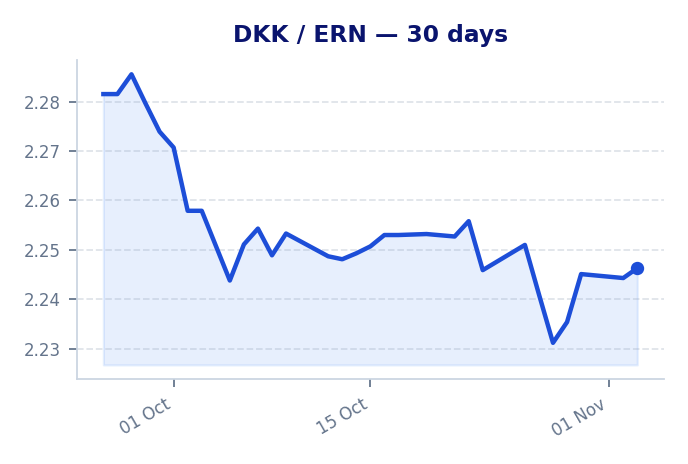
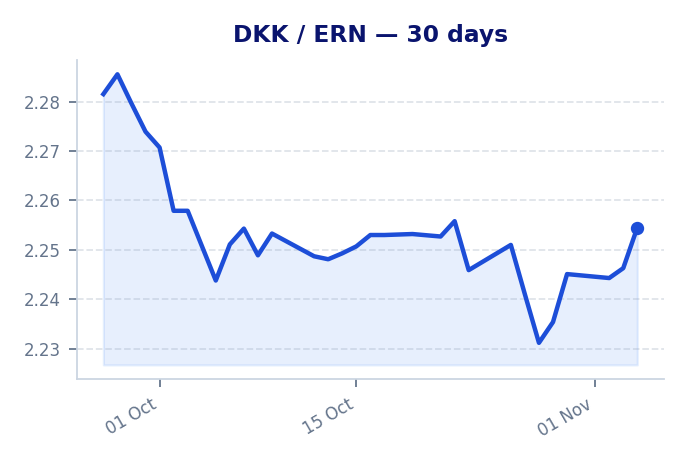
Add files via upload

diff --git a/index.html b/index.html
@@ -912,22 +912,22 @@ tr:hover {
 
             <div class="summary-item">
                 <div class="summary-label">SEK</div>
-                <div class="summary-value">1.5315</div>
+                <div class="summary-value">1.5375</div>
             </div>
 
             <div class="summary-item">
                 <div class="summary-label">NOK</div>
-                <div class="summary-value">1.6164</div>
+                <div class="summary-value">1.6189</div>
             </div>
 
             <div class="summary-item">
                 <div class="summary-label">DKK</div>
-                <div class="summary-value">2.2463</div>
+                <div class="summary-value">2.2545</div>
             </div>
 
             </div>
             <div class="mid-market-meta">
-                <div><span style="font-weight:600" data-i18n="last-updated">Last Updated:</span> 2026-11-03 21:31</div>
+                <div><span style="font-weight:600" data-i18n="last-updated">Last Updated:</span> 2026-11-04 07:04</div>
                 <div style="font-size:0.8rem" data-i18n="mid-market-note">Official mid-market rates collected daily. Actual transfer payout rates shown below.</div>
             </div>
         </div>
@@ -947,11 +947,11 @@ tr:hover {
             <div class="insight-boxes">
                 <div class="bestbox">
                     <span class="icon">🏆</span> 
-                    <span data-i18n="top-pick">Top Pick: <b>Ria</b> delivers <b>15 000 ERN</b></span>
+                    <span data-i18n="top-pick">Top Pick: <b>Remitly</b> delivers <b>15 129 ERN</b></span>
                 </div>
                 <div class="gainbox">
                     <span class="icon">💡</span> 
-                    <span data-i18n="smart-move">Smart Move: You get <b>+353 ERN</b> more with <b>Ria</b> vs <b>Juba Express</b></span>
+                    <span data-i18n="smart-move">Smart Move: You get <b>+421 ERN</b> more with <b>Remitly</b> vs <b>Juba Express</b></span>
                 </div>
             </div>
             
@@ -972,25 +972,25 @@ tr:hover {
                         
 <tr class="best-row">
 <td class="left">
-    <div class="company-name">Ria</div>
+    <div class="company-name">Remitly</div>
 </td>
-<td class="right font-numeric">1.5000</td>
+<td class="right font-numeric">1.5130</td>
 <td class="right font-numeric">0,00</td>
-<td class="right nowrap font-numeric highlight-ern">15 000</td>
+<td class="right nowrap font-numeric highlight-ern">15 129</td>
 <td class="right nowrap font-numeric">-</td>
-<td class="right font-numeric markup-cell">2.06%</td>
+<td class="right font-numeric markup-good">1.59%</td>
 <td class="right font-numeric hide-mobile"><span class="badge best-badge">Best</span></td>
 </tr>
 
 <tr class="">
 <td class="left">
-    <div class="company-name">Western Union</div>
+    <div class="company-name">Ria</div>
 </td>
-<td class="right font-numeric">1.4938</td>
+<td class="right font-numeric">1.5000</td>
 <td class="right font-numeric">0,00</td>
-<td class="right nowrap font-numeric highlight-ern">14 938</td>
-<td class="right nowrap font-numeric"><span class="loss-text">-62 ERN</span></td>
-<td class="right font-numeric markup-cell">2.46%</td>
+<td class="right nowrap font-numeric highlight-ern">15 000</td>
+<td class="right nowrap font-numeric"><span class="loss-text">-129 ERN</span></td>
+<td class="right font-numeric markup-cell">2.44%</td>
 <td class="right font-numeric hide-mobile"><span class="badge rank-badge">#2</span></td>
 </tr>
 
@@ -998,23 +998,23 @@ tr:hover {
 <td class="left">
     <div class="company-name">Transfer Galaxy</div>
 </td>
-<td class="right font-numeric">1.4908</td>
+<td class="right font-numeric">1.4897</td>
 <td class="right font-numeric">0,00</td>
-<td class="right nowrap font-numeric highlight-ern">14 907</td>
-<td class="right nowrap font-numeric"><span class="loss-text">-92 ERN</span></td>
-<td class="right font-numeric markup-cell">2.66%</td>
+<td class="right nowrap font-numeric highlight-ern">14 897</td>
+<td class="right nowrap font-numeric"><span class="loss-text">-232 ERN</span></td>
+<td class="right font-numeric markup-cell">3.11%</td>
 <td class="right font-numeric hide-mobile"><span class="badge rank-badge">#3</span></td>
 </tr>
 
 <tr class="">
 <td class="left">
-    <div class="company-name">Remitly</div>
+    <div class="company-name">Western Union</div>
 </td>
-<td class="right font-numeric">1.4908</td>
+<td class="right font-numeric">1.4890</td>
 <td class="right font-numeric">0,00</td>
-<td class="right nowrap font-numeric highlight-ern">14 907</td>
-<td class="right nowrap font-numeric"><span class="loss-text">-92 ERN</span></td>
-<td class="right font-numeric markup-cell">2.66%</td>
+<td class="right nowrap font-numeric highlight-ern">14 890</td>
+<td class="right nowrap font-numeric"><span class="loss-text">-239 ERN</span></td>
+<td class="right font-numeric markup-cell">3.15%</td>
 <td class="right font-numeric hide-mobile"><span class="badge rank-badge">#4</span></td>
 </tr>
 
@@ -1022,11 +1022,11 @@ tr:hover {
 <td class="left">
     <div class="company-name">Dahabshiil</div>
 </td>
-<td class="right font-numeric">1.4748</td>
+<td class="right font-numeric">1.4815</td>
 <td class="right font-numeric">0,00</td>
-<td class="right nowrap font-numeric highlight-ern">14 748</td>
-<td class="right nowrap font-numeric"><span class="loss-text">-251 ERN</span></td>
-<td class="right font-numeric markup-cell">3.70%</td>
+<td class="right nowrap font-numeric highlight-ern">14 815</td>
+<td class="right nowrap font-numeric"><span class="loss-text">-314 ERN</span></td>
+<td class="right font-numeric markup-cell">3.64%</td>
 <td class="right font-numeric hide-mobile"><span class="badge rank-badge">#5</span></td>
 </tr>
 
@@ -1034,11 +1034,11 @@ tr:hover {
 <td class="left">
     <div class="company-name">Juba Express</div>
 </td>
-<td class="right font-numeric">1.4647</td>
+<td class="right font-numeric">1.4708</td>
 <td class="right font-numeric">0,00</td>
-<td class="right nowrap font-numeric highlight-ern">14 646</td>
-<td class="right nowrap font-numeric"><span class="loss-text">-353 ERN</span></td>
-<td class="right font-numeric markup-cell">4.36%</td>
+<td class="right nowrap font-numeric highlight-ern">14 708</td>
+<td class="right nowrap font-numeric"><span class="loss-text">-421 ERN</span></td>
+<td class="right font-numeric markup-cell">4.34%</td>
 <td class="right font-numeric hide-mobile"><span class="badge rank-badge">#6</span></td>
 </tr>
 
@@ -1060,11 +1060,11 @@ tr:hover {
             <div class="insight-boxes">
                 <div class="bestbox">
                     <span class="icon">🏆</span> 
-                    <span data-i18n="top-pick">Top Pick: <b>Ria Money Transfer</b> delivers <b>15 700 ERN</b></span>
+                    <span data-i18n="top-pick">Top Pick: <b>Transfer Galaxy</b> delivers <b>15 704 ERN</b></span>
                 </div>
                 <div class="gainbox">
                     <span class="icon">💡</span> 
-                    <span data-i18n="smart-move">Smart Move: You get <b>+858 ERN</b> more with <b>Ria Money Transfer</b> vs <b>Hidmona Money Transfer</b></span>
+                    <span data-i18n="smart-move">Smart Move: You get <b>+862 ERN</b> more with <b>Transfer Galaxy</b> vs <b>Hidmona Money Transfer</b></span>
                 </div>
             </div>
             
@@ -1085,37 +1085,37 @@ tr:hover {
                         
 <tr class="best-row">
 <td class="left">
+    <div class="company-name">Transfer Galaxy</div>
+</td>
+<td class="right font-numeric">1.5704</td>
+<td class="right font-numeric">0,00</td>
+<td class="right nowrap font-numeric highlight-ern">15 704</td>
+<td class="right nowrap font-numeric">-</td>
+<td class="right font-numeric markup-cell">3.00%</td>
+<td class="right font-numeric hide-mobile"><span class="badge best-badge">Best</span></td>
+</tr>
+
+<tr class="">
+<td class="left">
     <div class="company-name">Ria Money Transfer</div>
 </td>
 <td class="right font-numeric">1.5700</td>
 <td class="right font-numeric">0,00</td>
 <td class="right nowrap font-numeric highlight-ern">15 700</td>
-<td class="right nowrap font-numeric">-</td>
-<td class="right font-numeric markup-cell">2.87%</td>
-<td class="right font-numeric hide-mobile"><span class="badge best-badge">Best</span></td>
+<td class="right nowrap font-numeric"><span class="loss-text">-4 ERN</span></td>
+<td class="right font-numeric markup-cell">3.02%</td>
+<td class="right font-numeric hide-mobile"><span class="badge rank-badge">#2</span></td>
 </tr>
 
 <tr class="">
 <td class="left">
     <div class="company-name">Remitly</div>
 </td>
-<td class="right font-numeric">1.5681</td>
+<td class="right font-numeric">1.5697</td>
 <td class="right font-numeric">0,00</td>
-<td class="right nowrap font-numeric highlight-ern">15 681</td>
-<td class="right nowrap font-numeric"><span class="loss-text">-19 ERN</span></td>
-<td class="right font-numeric markup-cell">2.99%</td>
-<td class="right font-numeric hide-mobile"><span class="badge rank-badge">#2</span></td>
-</tr>
-
-<tr class="">
-<td class="left">
-    <div class="company-name">Transfer Galaxy</div>
-</td>
-<td class="right font-numeric">1.5670</td>
-<td class="right font-numeric">0,00</td>
-<td class="right nowrap font-numeric highlight-ern">15 670</td>
-<td class="right nowrap font-numeric"><span class="loss-text">-30 ERN</span></td>
-<td class="right font-numeric markup-cell">3.06%</td>
+<td class="right nowrap font-numeric highlight-ern">15 697</td>
+<td class="right nowrap font-numeric"><span class="loss-text">-6 ERN</span></td>
+<td class="right font-numeric markup-cell">3.04%</td>
 <td class="right font-numeric hide-mobile"><span class="badge rank-badge">#3</span></td>
 </tr>
 
@@ -1123,11 +1123,11 @@ tr:hover {
 <td class="left">
     <div class="company-name">Juba Express</div>
 </td>
-<td class="right font-numeric">1.5456</td>
+<td class="right font-numeric">1.5485</td>
 <td class="right font-numeric">0,00</td>
-<td class="right nowrap font-numeric highlight-ern">15 456</td>
-<td class="right nowrap font-numeric"><span class="loss-text">-244 ERN</span></td>
-<td class="right font-numeric markup-cell">4.38%</td>
+<td class="right nowrap font-numeric highlight-ern">15 485</td>
+<td class="right nowrap font-numeric"><span class="loss-text">-219 ERN</span></td>
+<td class="right font-numeric markup-cell">4.35%</td>
 <td class="right font-numeric hide-mobile"><span class="badge rank-badge">#4</span></td>
 </tr>
 
@@ -1135,11 +1135,11 @@ tr:hover {
 <td class="left">
     <div class="company-name">Dahabshiil</div>
 </td>
-<td class="right font-numeric">1.5080</td>
+<td class="right font-numeric">1.5112</td>
 <td class="right font-numeric">0,00</td>
-<td class="right nowrap font-numeric highlight-ern">15 080</td>
-<td class="right nowrap font-numeric"><span class="loss-text">-620 ERN</span></td>
-<td class="right font-numeric markup-cell">6.71%</td>
+<td class="right nowrap font-numeric highlight-ern">15 112</td>
+<td class="right nowrap font-numeric"><span class="loss-text">-591 ERN</span></td>
+<td class="right font-numeric markup-cell">6.65%</td>
 <td class="right font-numeric hide-mobile"><span class="badge rank-badge">#5</span></td>
 </tr>
 
@@ -1150,8 +1150,8 @@ tr:hover {
 <td class="right font-numeric">1.4842</td>
 <td class="right font-numeric">0,00</td>
 <td class="right nowrap font-numeric highlight-ern">14 842</td>
-<td class="right nowrap font-numeric"><span class="loss-text">-858 ERN</span></td>
-<td class="right font-numeric markup-cell">8.18%</td>
+<td class="right nowrap font-numeric"><span class="loss-text">-862 ERN</span></td>
+<td class="right font-numeric markup-cell">8.32%</td>
 <td class="right font-numeric hide-mobile"><span class="badge rank-badge">#6</span></td>
 </tr>
 
@@ -1173,11 +1173,11 @@ tr:hover {
             <div class="insight-boxes">
                 <div class="bestbox">
                     <span class="icon">🏆</span> 
-                    <span data-i18n="top-pick">Top Pick: <b>Western Union</b> delivers <b>22 106 ERN</b></span>
+                    <span data-i18n="top-pick">Top Pick: <b>Western Union</b> delivers <b>22 453 ERN</b></span>
                 </div>
                 <div class="gainbox">
                     <span class="icon">💡</span> 
-                    <span data-i18n="smart-move">Smart Move: You get <b>+627 ERN</b> more with <b>Western Union</b> vs <b>Juba Express</b></span>
+                    <span data-i18n="smart-move">Smart Move: You get <b>+886 ERN</b> more with <b>Western Union</b> vs <b>Juba Express</b></span>
                 </div>
             </div>
             
@@ -1200,11 +1200,11 @@ tr:hover {
 <td class="left">
     <div class="company-name">Western Union</div>
 </td>
-<td class="right font-numeric">2.2106</td>
+<td class="right font-numeric">2.2453</td>
 <td class="right font-numeric">0,00</td>
-<td class="right nowrap font-numeric highlight-ern">22 106</td>
+<td class="right nowrap font-numeric highlight-ern">22 453</td>
 <td class="right nowrap font-numeric">-</td>
-<td class="right font-numeric markup-good">1.59%</td>
+<td class="right font-numeric markup-good">0.41%</td>
 <td class="right font-numeric hide-mobile"><span class="badge best-badge">Best</span></td>
 </tr>
 
@@ -1215,8 +1215,8 @@ tr:hover {
 <td class="right font-numeric">2.2100</td>
 <td class="right font-numeric">0,00</td>
 <td class="right nowrap font-numeric highlight-ern">22 100</td>
-<td class="right nowrap font-numeric"><span class="loss-text">-6 ERN</span></td>
-<td class="right font-numeric markup-good">1.62%</td>
+<td class="right nowrap font-numeric"><span class="loss-text">-353 ERN</span></td>
+<td class="right font-numeric markup-good">1.97%</td>
 <td class="right font-numeric hide-mobile"><span class="badge rank-badge">#2</span></td>
 </tr>
 
@@ -1224,11 +1224,11 @@ tr:hover {
 <td class="left">
     <div class="company-name">Remitly</div>
 </td>
-<td class="right font-numeric">2.1944</td>
+<td class="right font-numeric">2.2016</td>
 <td class="right font-numeric">0,00</td>
-<td class="right nowrap font-numeric highlight-ern">21 944</td>
-<td class="right nowrap font-numeric"><span class="loss-text">-162 ERN</span></td>
-<td class="right font-numeric markup-cell">2.31%</td>
+<td class="right nowrap font-numeric highlight-ern">22 016</td>
+<td class="right nowrap font-numeric"><span class="loss-text">-437 ERN</span></td>
+<td class="right font-numeric markup-cell">2.35%</td>
 <td class="right font-numeric hide-mobile"><span class="badge rank-badge">#3</span></td>
 </tr>
 
@@ -1236,11 +1236,11 @@ tr:hover {
 <td class="left">
     <div class="company-name">Transfer Galaxy</div>
 </td>
-<td class="right font-numeric">2.1840</td>
+<td class="right font-numeric">2.1839</td>
 <td class="right font-numeric">0,00</td>
-<td class="right nowrap font-numeric highlight-ern">21 840</td>
-<td class="right nowrap font-numeric"><span class="loss-text">-266 ERN</span></td>
-<td class="right font-numeric markup-cell">2.77%</td>
+<td class="right nowrap font-numeric highlight-ern">21 839</td>
+<td class="right nowrap font-numeric"><span class="loss-text">-614 ERN</span></td>
+<td class="right font-numeric markup-cell">3.13%</td>
 <td class="right font-numeric hide-mobile"><span class="badge rank-badge">#4</span></td>
 </tr>
 
@@ -1251,8 +1251,8 @@ tr:hover {
 <td class="right font-numeric">2.1817</td>
 <td class="right font-numeric">0,00</td>
 <td class="right nowrap font-numeric highlight-ern">21 817</td>
-<td class="right nowrap font-numeric"><span class="loss-text">-288 ERN</span></td>
-<td class="right font-numeric markup-cell">2.88%</td>
+<td class="right nowrap font-numeric"><span class="loss-text">-635 ERN</span></td>
+<td class="right font-numeric markup-cell">3.23%</td>
 <td class="right font-numeric hide-mobile"><span class="badge rank-badge">#5</span></td>
 </tr>
 
@@ -1260,11 +1260,11 @@ tr:hover {
 <td class="left">
     <div class="company-name">Juba Express</div>
 </td>
-<td class="right font-numeric">2.1479</td>
+<td class="right font-numeric">2.1567</td>
 <td class="right font-numeric">0,00</td>
-<td class="right nowrap font-numeric highlight-ern">21 479</td>
-<td class="right nowrap font-numeric"><span class="loss-text">-627 ERN</span></td>
-<td class="right font-numeric markup-cell">4.38%</td>
+<td class="right nowrap font-numeric highlight-ern">21 567</td>
+<td class="right nowrap font-numeric"><span class="loss-text">-886 ERN</span></td>
+<td class="right font-numeric markup-cell">4.34%</td>
 <td class="right font-numeric hide-mobile"><span class="badge rank-badge">#6</span></td>
 </tr>
 
@@ -1282,7 +1282,7 @@ tr:hover {
             <div class="chart-card">
                 <div class="chart-header">
                     <img src="https://flagcdn.com/w40/se.png" class="flag-sm" alt="Sweden" width="24" height="16" loading="lazy" decoding="async"> <span>SEK / ERN</span>
-                    <span class="trend-badge up">▲ 1.4%</span>
+                    <span class="trend-badge up">▲ 1.8%</span>
                 </div>
                 <img src="sek_chart.png" class="chart-img" alt="SEK to ERN exchange-rate trend over the last 30 days" loading="lazy" decoding="async" width="688" height="464">
             </div>
@@ -1290,7 +1290,7 @@ tr:hover {
             <div class="chart-card">
                 <div class="chart-header">
                     <img src="https://flagcdn.com/w40/no.png" class="flag-sm" alt="Norway" width="24" height="16" loading="lazy" decoding="async"> <span>NOK / ERN</span>
-                    <span class="trend-badge up">▲ 2.7%</span>
+                    <span class="trend-badge up">▲ 2.8%</span>
                 </div>
                 <img src="nok_chart.png" class="chart-img" alt="NOK to ERN exchange-rate trend over the last 30 days" loading="lazy" decoding="async" width="688" height="464">
             </div>
@@ -1298,7 +1298,7 @@ tr:hover {
             <div class="chart-card">
                 <div class="chart-header">
                     <img src="https://flagcdn.com/w40/dk.png" class="flag-sm" alt="Denmark" width="24" height="16" loading="lazy" decoding="async"> <span>DKK / ERN</span>
-                    <span class="trend-badge down">▼ 1.5%</span>
+                    <span class="trend-badge down">▼ 1.2%</span>
                 </div>
                 <img src="dkk_chart.png" class="chart-img" alt="DKK to ERN exchange-rate trend over the last 30 days" loading="lazy" decoding="async" width="688" height="464">
             </div>
@@ -1361,7 +1361,7 @@ tr:hover {
         "calculator-note": "እቲ ዝበለጸ ክፍሊት ንዝኣተኻዮ መጠን ብተመሳሳሊ ሕሳብ ዋጋን ክፍሊትን ከም ሰንጠረዥ ይደጋገም።"
     };
 
-    const calculatorData = {"SEK": [{"provider": "Ria", "rate": 1.5, "total_fee": 0.0}, {"provider": "Western Union", "rate": 1.4938, "total_fee": 0.0}, {"provider": "Transfer Galaxy", "rate": 1.4908, "total_fee": 0.0}, {"provider": "Remitly", "rate": 1.4908, "total_fee": 0.0}, {"provider": "Dahabshiil", "rate": 1.4748, "total_fee": 0.0}, {"provider": "Juba Express", "rate": 1.4647, "total_fee": 0.0}], "NOK": [{"provider": "Ria Money Transfer", "rate": 1.57, "total_fee": 0.0}, {"provider": "Remitly", "rate": 1.5681, "total_fee": 0.0}, {"provider": "Transfer Galaxy", "rate": 1.567, "total_fee": 0.0}, {"provider": "Juba Express", "rate": 1.5456, "total_fee": 0.0}, {"provider": "Dahabshiil", "rate": 1.508, "total_fee": 0.0}, {"provider": "Hidmona Money Transfer", "rate": 1.4842, "total_fee": 0.0}], "DKK": [{"provider": "Western Union", "rate": 2.2106, "total_fee": 0.0}, {"provider": "Ria Money Transfer", "rate": 2.21, "total_fee": 0.0}, {"provider": "Remitly", "rate": 2.1944, "total_fee": 0.0}, {"provider": "Transfer Galaxy", "rate": 2.184, "total_fee": 0.0}, {"provider": "Hidmona Money Transfer", "rate": 2.1817, "total_fee": 0.0}, {"provider": "Juba Express", "rate": 2.1479, "total_fee": 0.0}]};
+    const calculatorData = {"SEK": [{"provider": "Remitly", "rate": 1.513, "total_fee": 0.0}, {"provider": "Ria", "rate": 1.5, "total_fee": 0.0}, {"provider": "Transfer Galaxy", "rate": 1.4897, "total_fee": 0.0}, {"provider": "Western Union", "rate": 1.489, "total_fee": 0.0}, {"provider": "Dahabshiil", "rate": 1.4815, "total_fee": 0.0}, {"provider": "Juba Express", "rate": 1.4708, "total_fee": 0.0}], "NOK": [{"provider": "Transfer Galaxy", "rate": 1.5704, "total_fee": 0.0}, {"provider": "Ria Money Transfer", "rate": 1.57, "total_fee": 0.0}, {"provider": "Remitly", "rate": 1.5697, "total_fee": 0.0}, {"provider": "Juba Express", "rate": 1.5485, "total_fee": 0.0}, {"provider": "Dahabshiil", "rate": 1.5112, "total_fee": 0.0}, {"provider": "Hidmona Money Transfer", "rate": 1.4842, "total_fee": 0.0}], "DKK": [{"provider": "Western Union", "rate": 2.2453, "total_fee": 0.0}, {"provider": "Ria Money Transfer", "rate": 2.21, "total_fee": 0.0}, {"provider": "Remitly", "rate": 2.2016, "total_fee": 0.0}, {"provider": "Transfer Galaxy", "rate": 2.1839, "total_fee": 0.0}, {"provider": "Hidmona Money Transfer", "rate": 2.1817, "total_fee": 0.0}, {"provider": "Juba Express", "rate": 2.1567, "total_fee": 0.0}]};
     const labels = [...document.querySelectorAll('[data-i18n]')];
     const english = new Map(labels.map(el => [el, el.innerHTML]));
 
